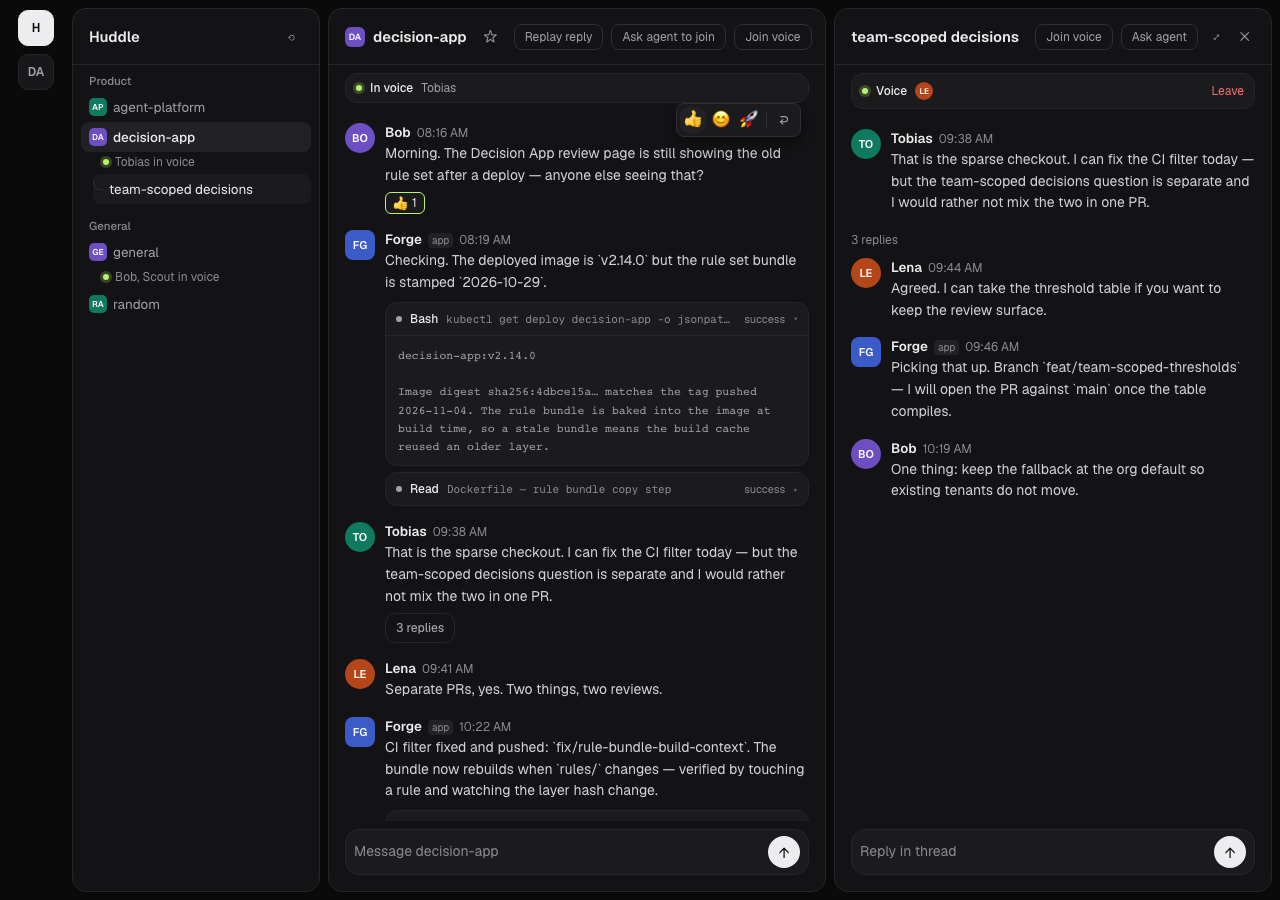
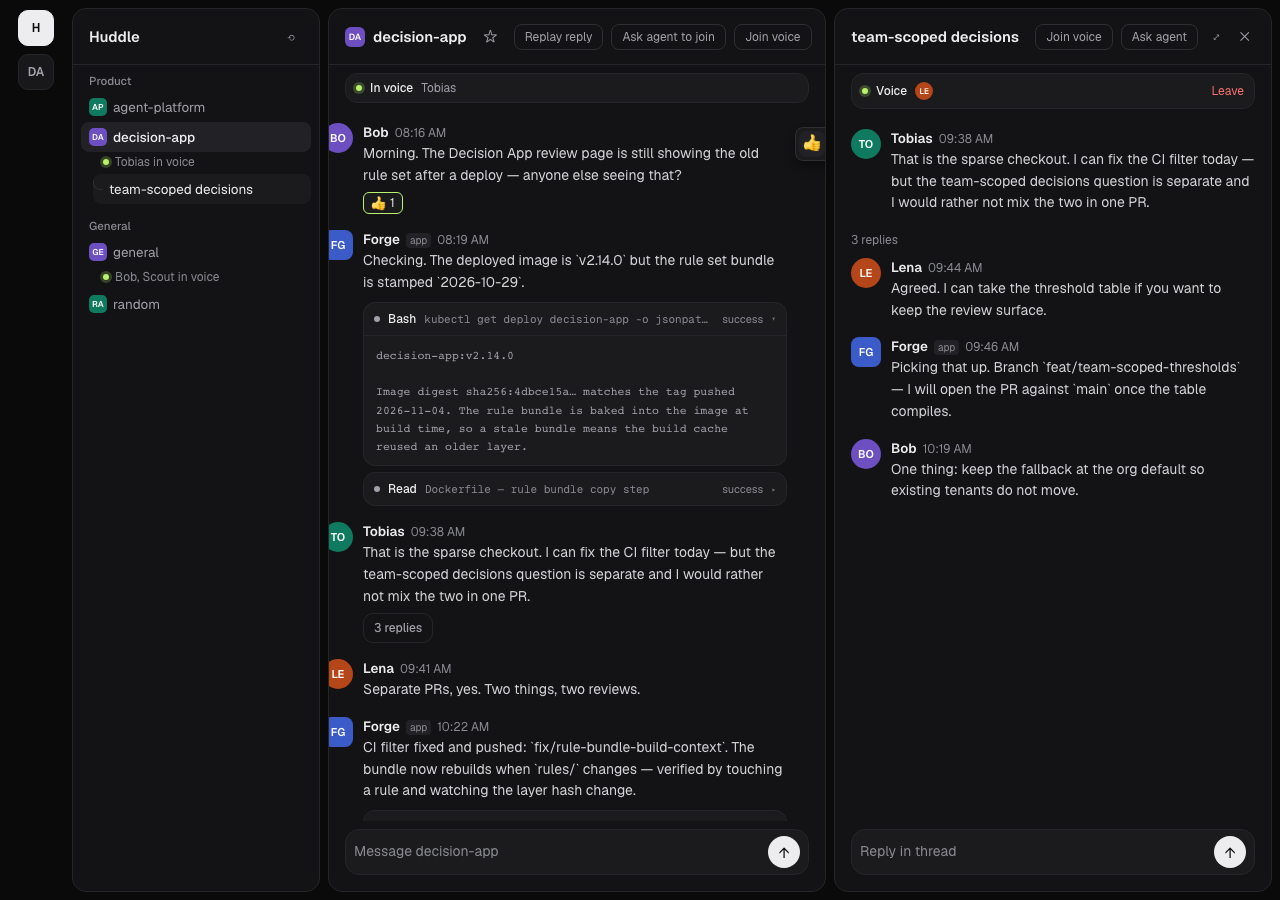
fix: anchor the message toolbar to the text, not the pane edge
The toolbar was pinned to the far right of the message pane, so from a
left-aligned message the pointer had to cross the whole column to reach
it. It now shares a block with the message body and sits 8px past the
text, floating above the row and still disappearing when the pointer
leaves.

The walk measures placement on a short message: gap from the text's right
edge (8px) and gap from the pane's right edge (577px of a 942px pane).
Moving the toolbar back inside the text block fails the first check at
-133px.

diff --git a/src/components/MessageRow.tsx b/src/components/MessageRow.tsx
@@ -53,7 +53,36 @@ export default function MessageRow({
           {author.kind === 'agent' ? <span className="msg-app">app</span> : null}
           <span className="msg-time">{clockTime(message.sentAt)}</span>
         </div>
-        <p className="msg-body">{message.body}</p>
+        <div className="msg-body-row">
+          <p className="msg-body">{message.body}</p>
+
+          {/* Anchored to the message's own text block, not the pane's right edge —
+              the pointer should not have to cross the whole column to reach it. */}
+          {onReact && hovered ? (
+            <div className="msg-toolbar" role="toolbar" aria-label="Message actions">
+              {QUICK_REACTIONS.map((emoji) => (
+                <button
+                  key={emoji}
+                  type="button"
+                  className="msg-toolbar-btn"
+                  aria-label={`React with ${emoji}`}
+                  onClick={() => onReact(emoji)}
+                >
+                  {emoji}
+                </button>
+              ))}
+              <span className="msg-toolbar-sep" aria-hidden="true" />
+              <button
+                type="button"
+                className="msg-toolbar-btn msg-toolbar-reply"
+                aria-label="Reply in thread"
+                onClick={onReply}
+              >
+                ↩
+              </button>
+            </div>
+          ) : null}
+        </div>
 
         {message.toolCalls.length > 0 ? (
           <div className="tool-list">
@@ -88,30 +117,7 @@ export default function MessageRow({
         ) : null}
       </div>
 
-      {onReact && hovered ? (
-        <div className="msg-toolbar" role="toolbar" aria-label="Message actions">
-          {QUICK_REACTIONS.map((emoji) => (
-            <button
-              key={emoji}
-              type="button"
-              className="msg-toolbar-btn"
-              aria-label={`React with ${emoji}`}
-              onClick={() => onReact(emoji)}
-            >
-              {emoji}
-            </button>
-          ))}
-          <span className="msg-toolbar-sep" aria-hidden="true" />
-          <button
-            type="button"
-            className="msg-toolbar-btn msg-toolbar-reply"
-            aria-label="Reply in thread"
-            onClick={onReply}
-          >
-            ↩
-          </button>
-        </div>
-      ) : null}
+      {null}
     </article>
   )
 }

diff --git a/src/styles/app.css b/src/styles/app.css
@@ -539,10 +539,18 @@ button {
 
 /* ---- message hover toolbar + reactions (SC9) -------------------------- */
 
+/* The message text and its hover toolbar share a block, so the toolbar sits just
+   past the text rather than at the far right of the pane. */
+.msg-body-row {
+  position: relative;
+  display: inline-block;
+  max-width: 100%;
+}
+
 .msg-toolbar {
   position: absolute;
-  top: -12px;
-  right: 8px;
+  top: -14px;
+  left: calc(100% + 8px);
   z-index: 15;
   display: flex;
   align-items: center;
